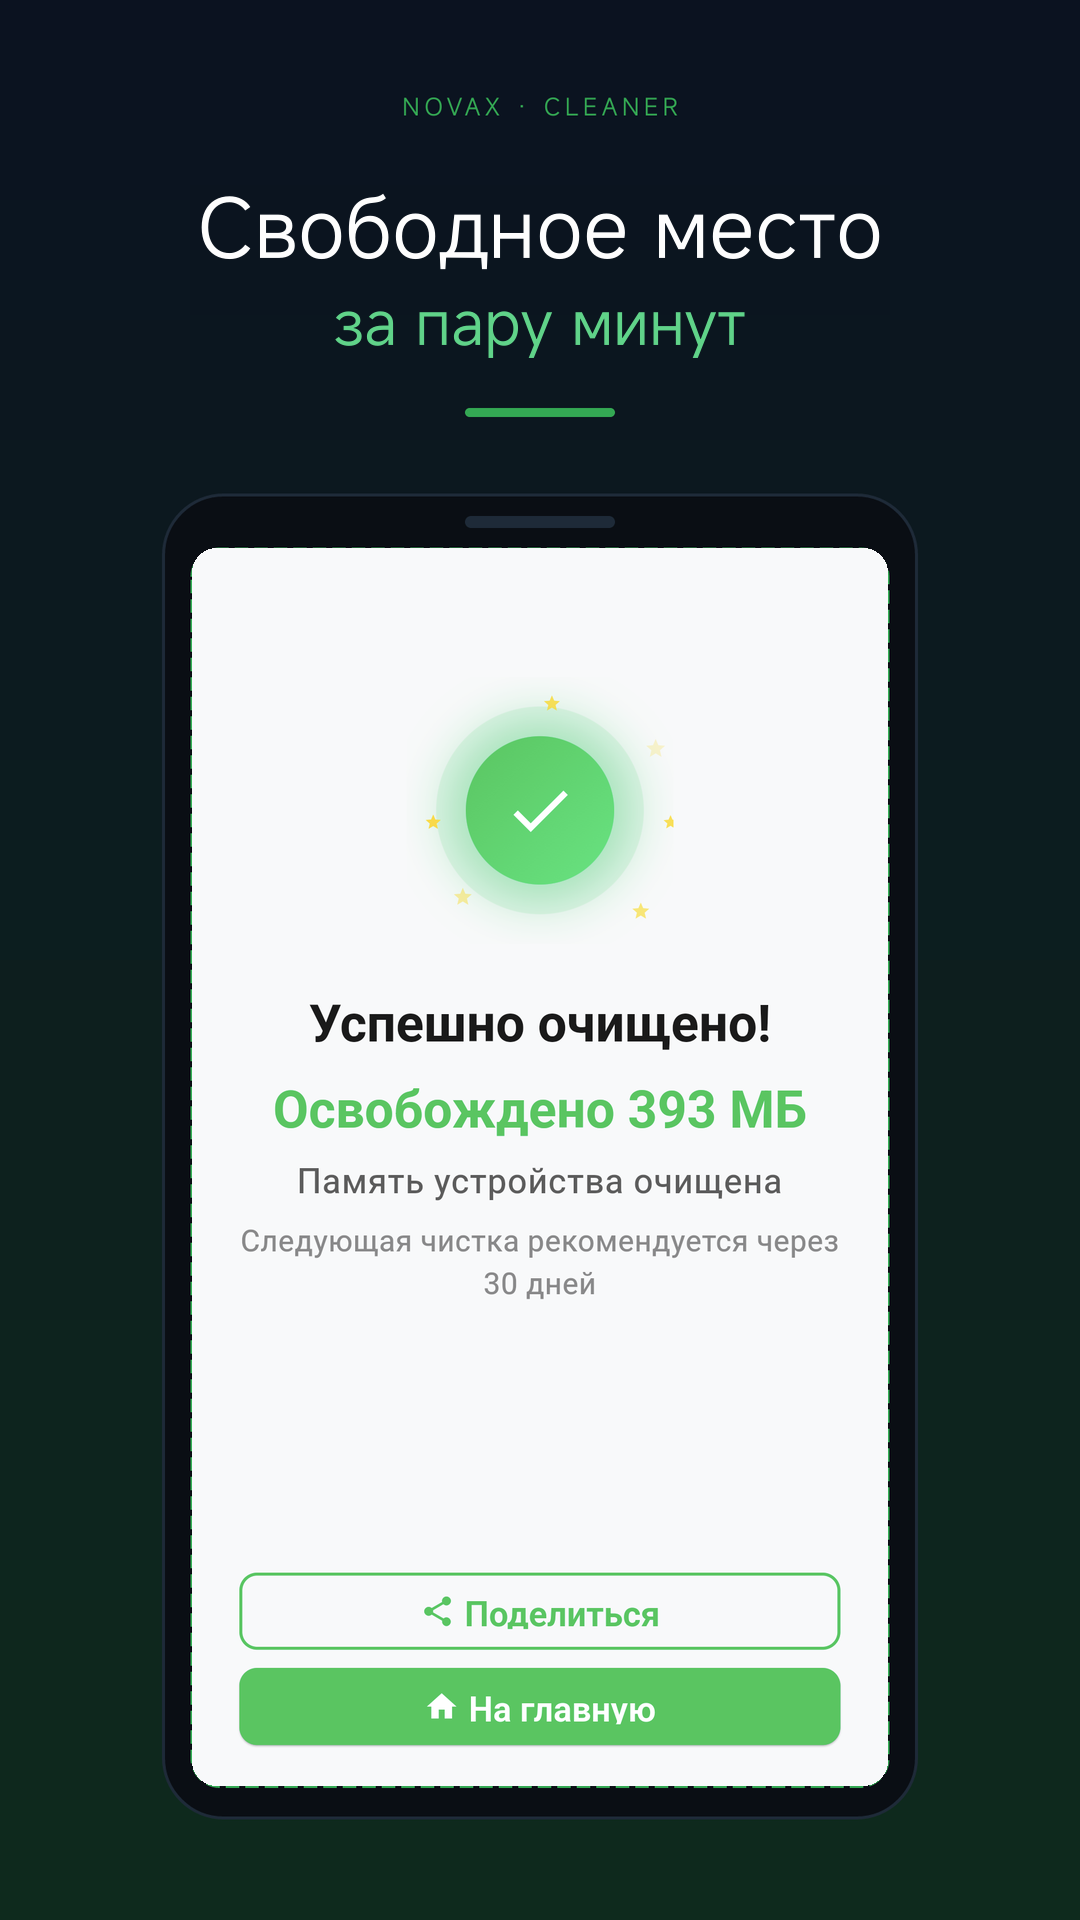
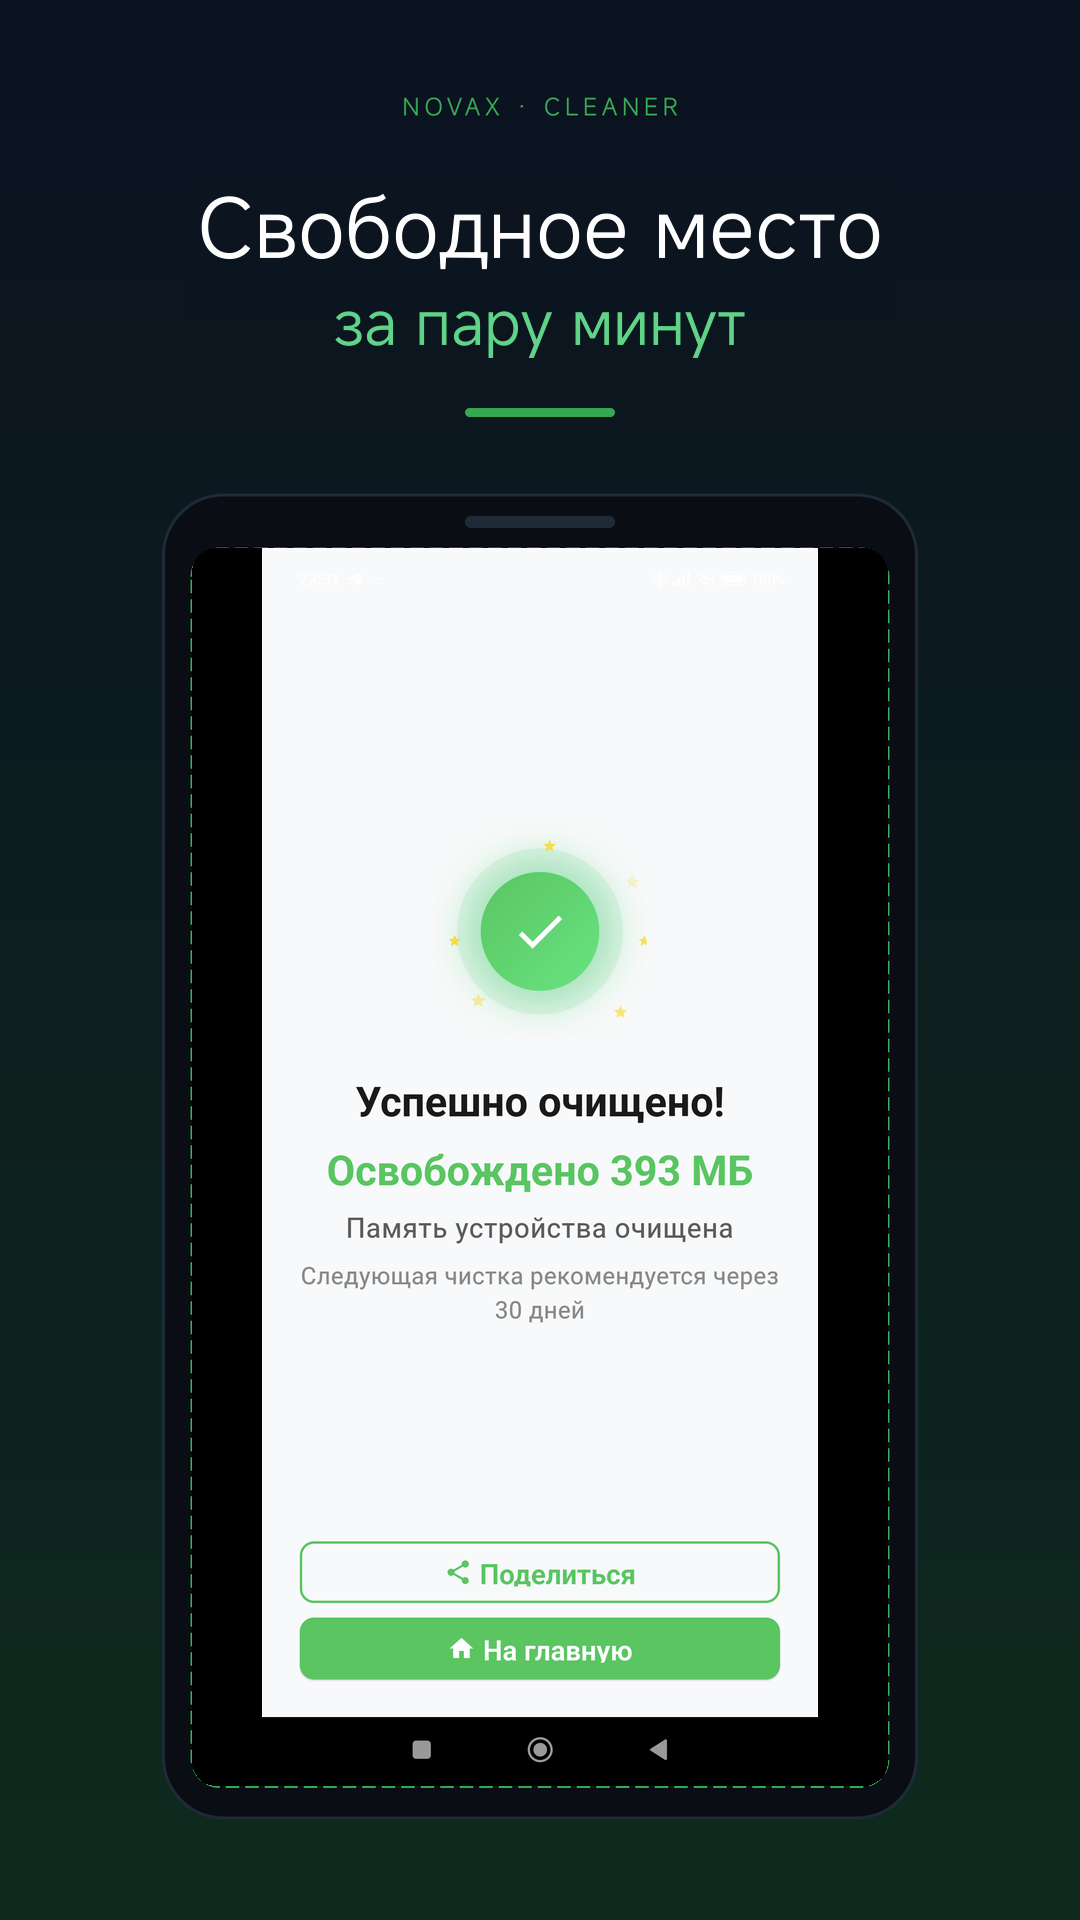
mirror sync 2026-10-28 11:39

Changed region(s): [[0.1528, 0.2812, 0.825, 0.9375]]

diff --git a/MAILBOX.md b/MAILBOX.md
@@ -5630,3 +5630,17 @@ NOVAX_Files_debug.apk) — завтра Владимир тапает вручн
 — Гиа
 
 ─── прочитал до [2026-10-28 09:30, Гиа] ───
+
+─── [2026-10-28 09:50, Гиа → все, К3] [Cleaner ОПУБЛИКОВАН ✅; скрины обновлены на FIT] [FYI] ───
+На связи Гиа. Владимир: Cleaner 2.3.1+4031 прошёл модерацию и опубликован 🎉
+Витрина: те же 5 кадров пересобраны в FIT (весь экран целиком, без кропа —
+твой же принцип «без полуобрезанных строк»), Владимир заменит скрины в
+карточке отдельной правкой (версия не меняется). Папка для консоли:
+C:\dev\releases\UPDATE_SCREENS_Cleaner_2026-10-28\
+@Р-2: вчерашний урок зафиксировал — новые QA-ловушки 13–14: ① HyperOS
+блокирует adb-install (INSTALL_FAILED_USER_RESTRICTED) — обход ручным тапом
+APK из Download; ② скрины-сироты MediaStore (серая плитка в пикере) —
+перекладывать файл. Впиши в загрузчик при случае. 🤝
+— Гиа
+
+─── прочитал до [2026-10-28 09:50, Гиа] ───
